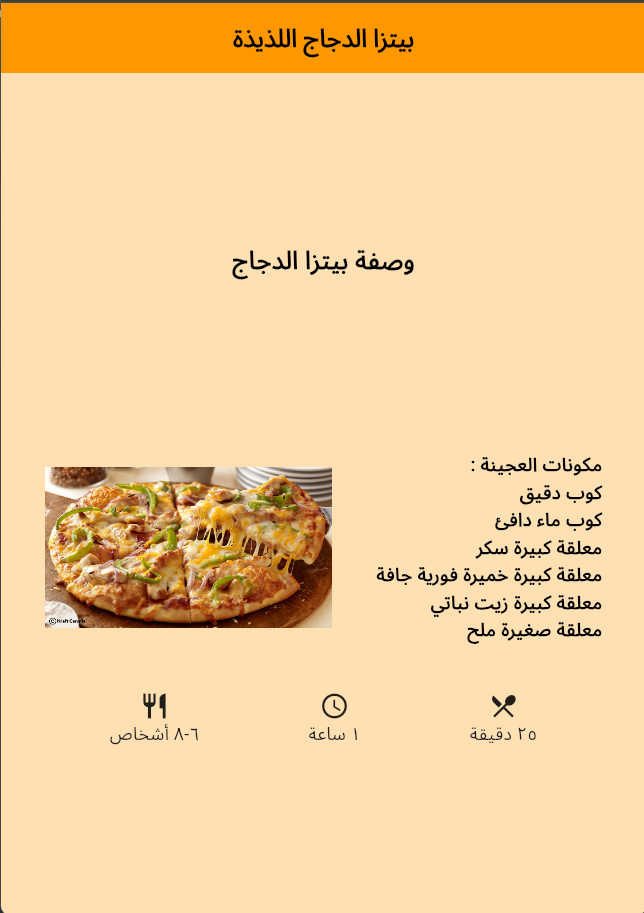
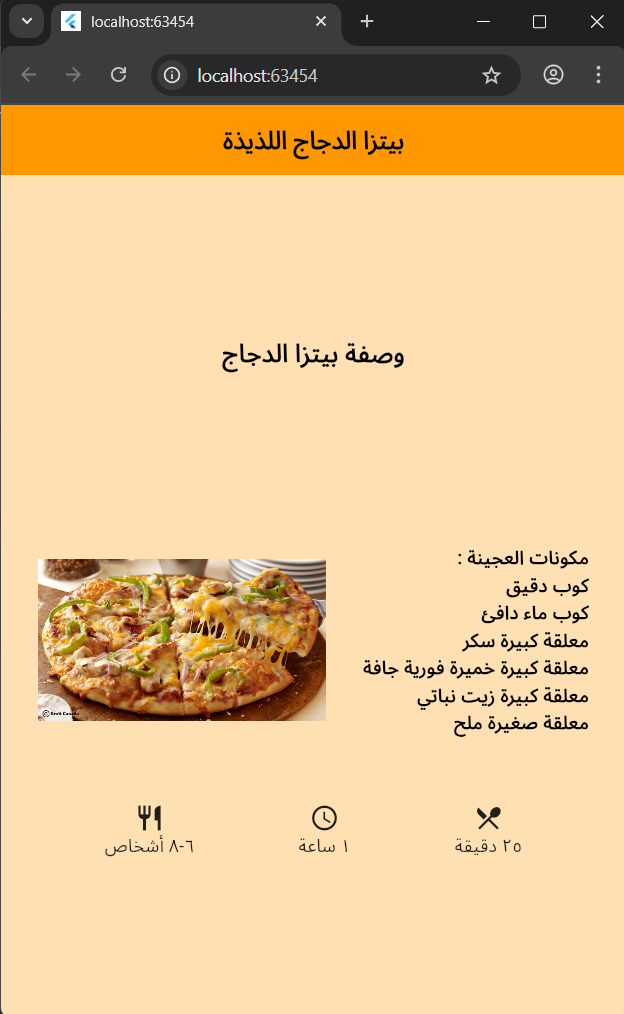
add spaceing between Column and row and add screenshots for screen

diff --git a/lib/main.dart b/lib/main.dart
@@ -7,7 +7,6 @@ void main() {
 class MyApp extends StatelessWidget {
   const MyApp({super.key});
 
-  // This widget is the root of your application.
   @override
   Widget build(BuildContext context) {
     return MaterialApp(
@@ -109,6 +108,7 @@ class MyApp extends StatelessWidget {
                 ),
               ],
             ),
+            SizedBox(height: 15),
             Row(
               mainAxisAlignment: MainAxisAlignment.spaceEvenly,
               children: [
